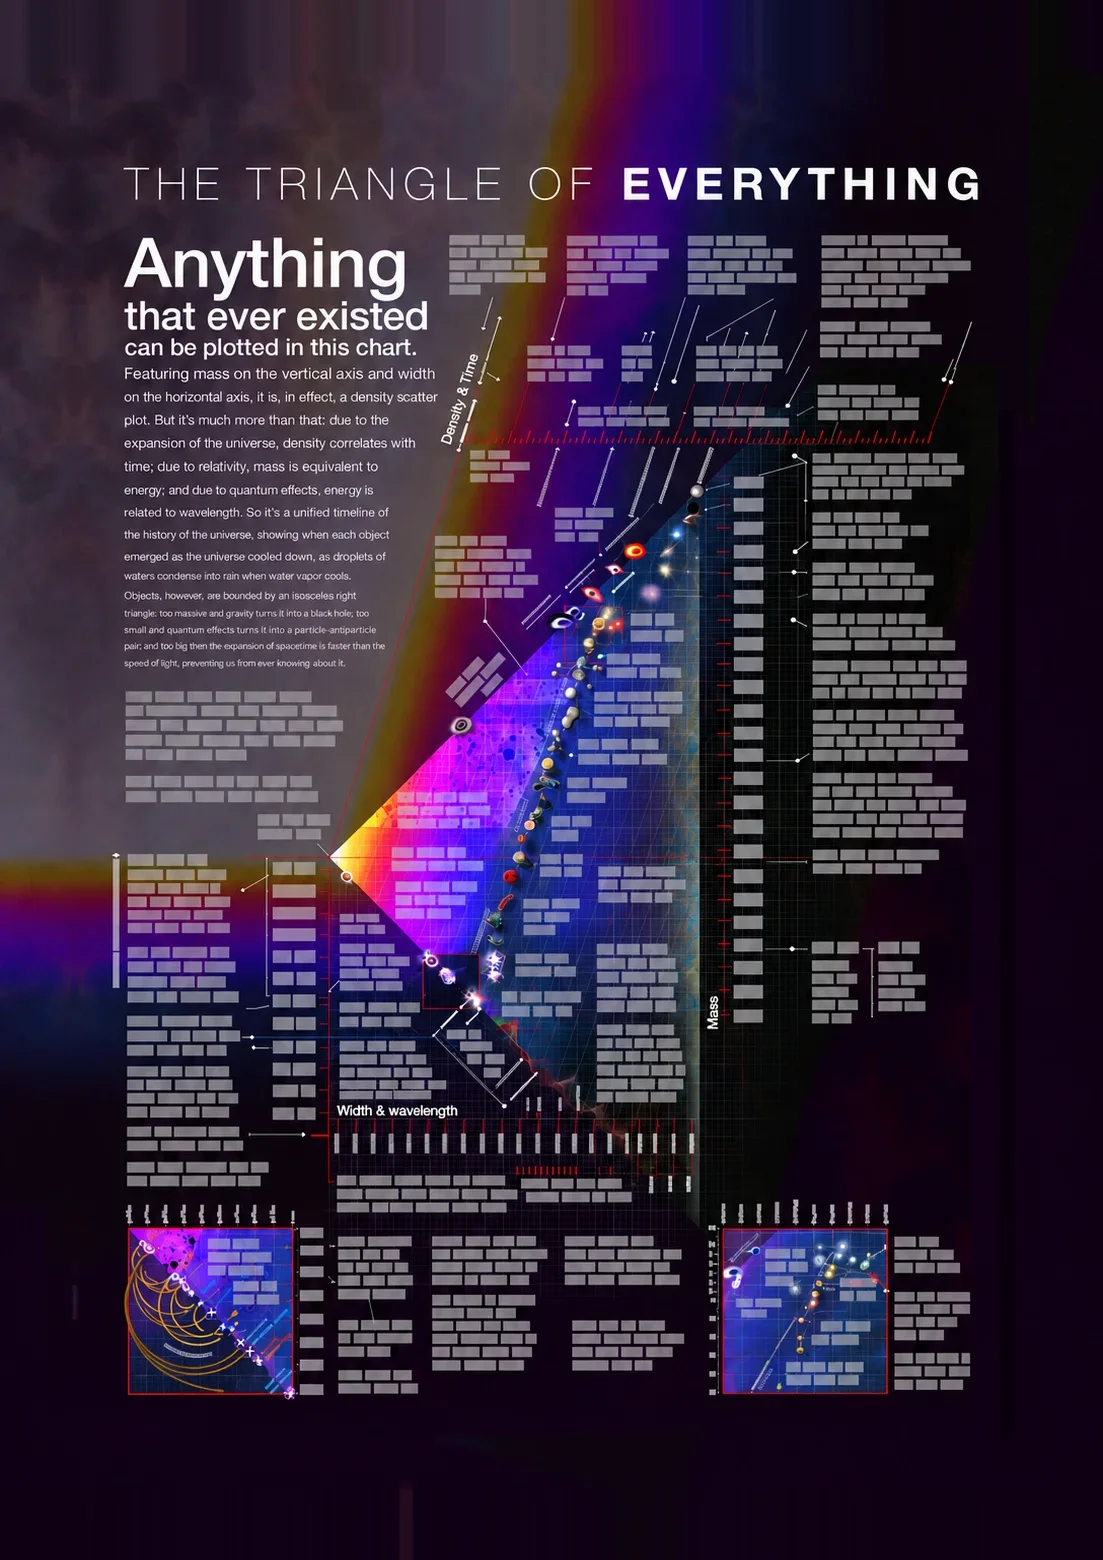
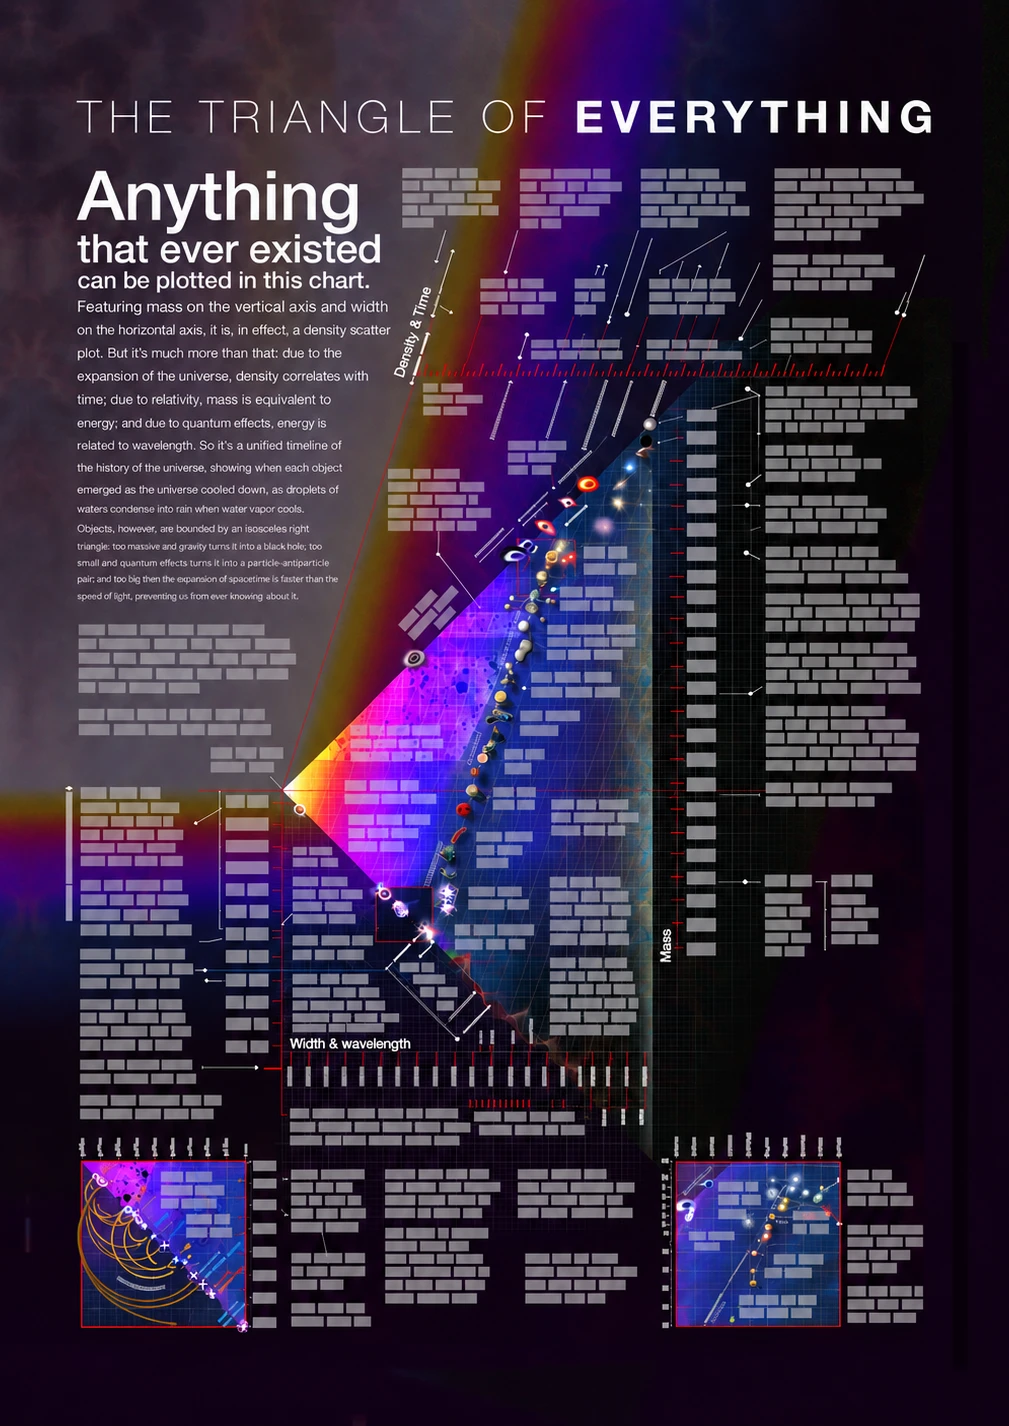
Alex's own A4 crop of the triangle poster
1009 by 1426, which is A4 to within a fifteenth of a percent, so it fills
the sheet with nothing added. Replaces the copy I had padded out to A4 by
repeating its top and bottom rows, and the comment explaining that padding
goes with it.

Kept as the webp it arrived as rather than re-encoded: it is already the
right format and size, and a second lossy pass over a lossy file only
costs quality.

diff --git a/site/deck.html b/site/deck.html
@@ -68,8 +68,6 @@ body{margin:0;background:var(--dark);color:var(--ink);
 .face.art{padding:0;background-color:var(--poster);
   background-position:center;background-size:cover;background-repeat:no-repeat}
 .art.maps{background-image:url("img/hexagonal-earth.webp")}
-/* padded to A4 in the file by extending its own top and bottom rows, so cover
-   shows all of it — cropping to fit would have taken the ends off the title */
 .art.triangle{background-color:#1b1124;
   background-image:url("img/triangle-of-everything.webp")}
 
